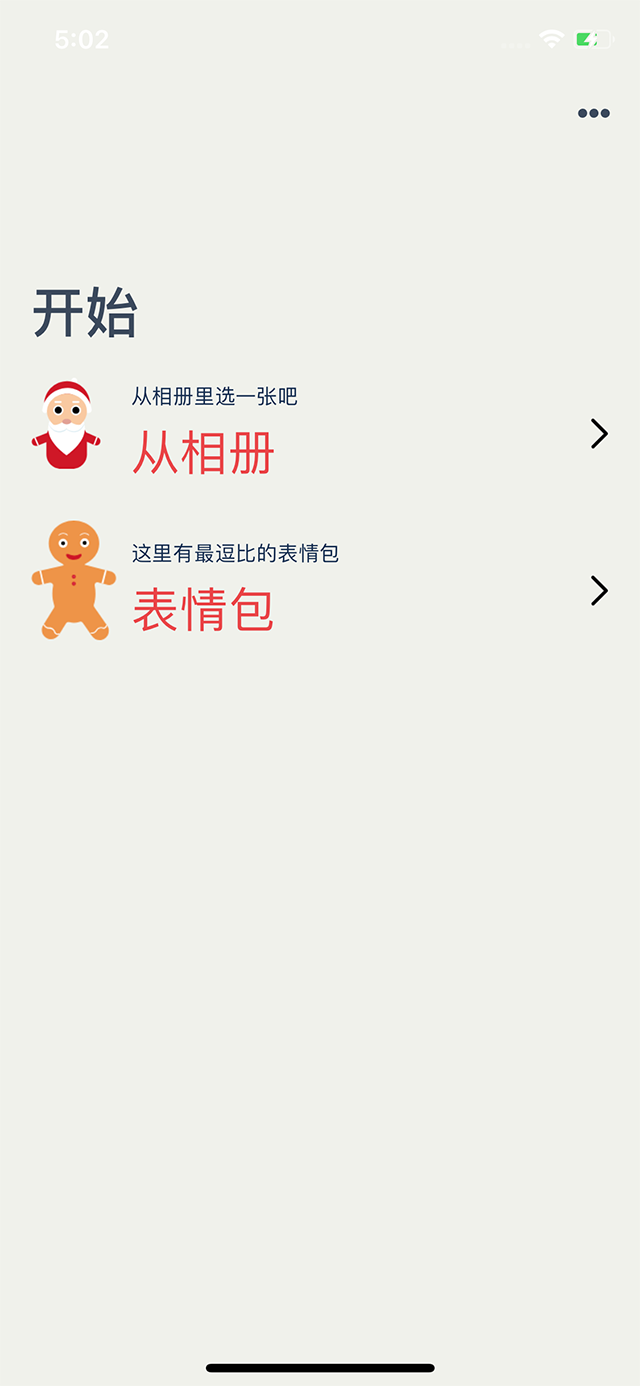
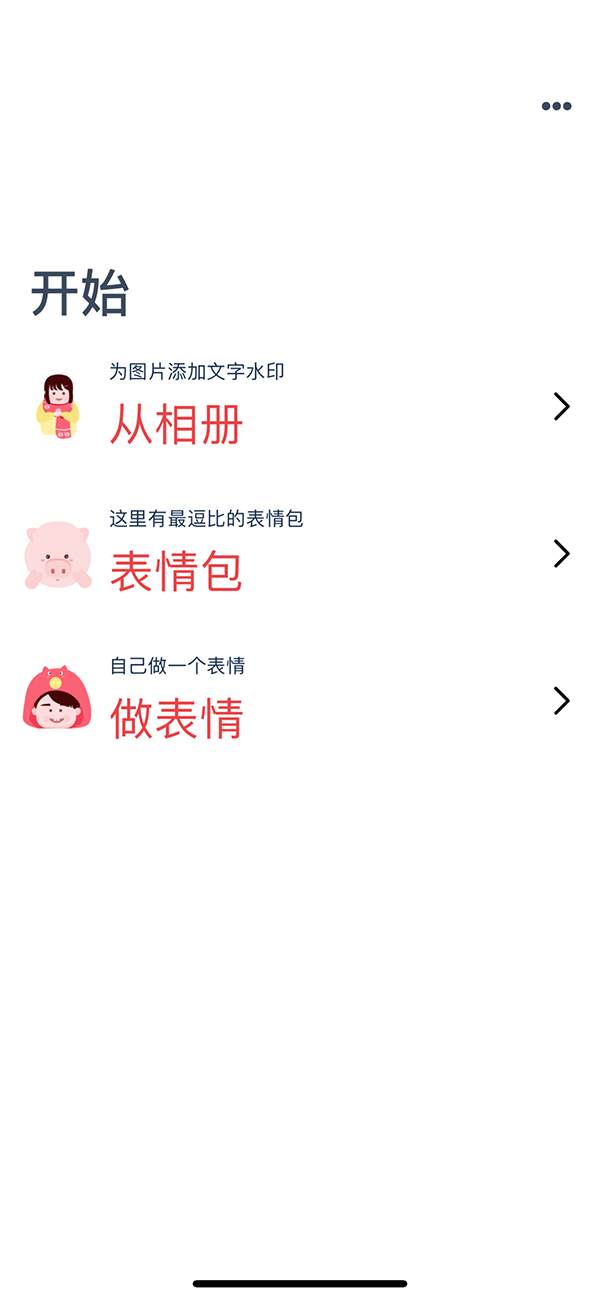
cc

diff --git a/LYWeChatMaker/Classes/HomePage/Controller/LYHomePageViewController.m b/LYWeChatMaker/Classes/HomePage/Controller/LYHomePageViewController.m
@@ -34,7 +34,37 @@
    
     [self loadNewData];
     
+    [self downLoadFiled];
 }
+
+- (void)downLoadFiled{
+    
+
+    
+    [LYNetworkHelper downloadWithURL:@"http://plrhxkqxe.bkt.clouddn.com/resourcemgtemoji.txt" fileDir:@"Documents" progress:^(NSProgress * _Nonnull progress) {
+       
+    } success:^(NSString * _Nonnull filePath) {
+        LYLog(@"downLoadPath = %@",filePath);
+        
+        NSData *data = [NSData dataWithContentsOfURL:[NSURL URLWithString:filePath]];
+        
+        NSString *str = [[NSString alloc] initWithData:data encoding:NSUTF8StringEncoding];
+        
+
+        NSError *error;
+
+        NSString *textFieldContents = [NSString stringWithContentsOfFile:filePath encoding:NSUTF8StringEncoding error:&error];
+        NSLog(@"--textFieldContents---%@-----",textFieldContents);
+        if (textFieldContents==nil) {
+            NSLog(@"---error--%@",[error localizedDescription]);
+        }
+        NSArray *lines=[textFieldContents componentsSeparatedByString:@","];
+        NSLog(@"--lines---%@-----",lines);
+    } failure:^(NSError * _Nonnull error) {
+        
+    }] ;
+}
+
 - (void)setupSubViews{
     self.tableView.separatorStyle = UITableViewCellSeparatorStyleNone;
     self.navBarView.leftBarItemImage = nil;

diff --git a/LYWeChatMaker/Classes/HomePage/Service/LYHomePageService.m b/LYWeChatMaker/Classes/HomePage/Service/LYHomePageService.m
@@ -1,0 +1,38 @@
+//
+//  LYHomePageService.m
+//  LYWeChatMaker
+//
+//  Created by CNFOL_iOS on 2019/1/23.
+//  Copyright © 2019年 LYoung_iOS. All rights reserved.
+//
+
+#import "LYHomePageService.h"
+#import "LYEmoticonListModel.h"
+
+#define kGETALLEMOJILIST_URL @"https://www.easy-mock.com/mock/5c47ef339f1c8a370307b104/makeemoji/emojiList"
+
+@implementation LYHomePageService
+
+/**
+ 获取表情包列表
+ */
++ (void)getAllEmojiListWithSuccess:(HttpRequestArraySuccess)success
+                            failue:(HttpRequestFailed)failue{
+    [LYNetworkHelper GET:kGETALLEMOJILIST_URL parameters:[NSDictionary dictionary] showHUD:YES success:^(id  _Nonnull responseObject) {
+        NSArray *arr = responseObject[@"data"][@"list"];
+        
+        NSMutableArray *resArray = [NSMutableArray array];
+        for (NSDictionary *dict in arr) {
+            LYEmoticonListModel *model = [LYEmoticonListModel modelWithJSON:dict];
+            model.isLock       = ![[NSUserDefaults standardUserDefaults] boolForKey:model.emoticonId];
+            [resArray addObject:model];
+        }
+        if (success) {
+            success(resArray);
+        }
+    } failure:^(NSError * _Nonnull error) {
+        
+    }];
+}
+
+@end

diff --git a/LYWeChatMaker/Classes/HomePage/Controller/LYAllEmoticonsViewController.m b/LYWeChatMaker/Classes/HomePage/Controller/LYAllEmoticonsViewController.m
@@ -50,17 +50,18 @@
     if (self.dataArray.count) {
         [self.dataArray removeAllObjects];
     }
+
     
     for (int i = 0; i < 2; i++) {
         LYEmoticonListModel *model = [[LYEmoticonListModel alloc] init];
-        model.emoticonType = [NSString stringWithFormat:@"%d",i];
+
         if (i == 0) {
             model.emoticonIntro = @"斗图我从来不怂";
             model.emoticonName = @"熊猫人";
             model.canCopy      = NO;
             model.isLock       = ![[NSUserDefaults standardUserDefaults] boolForKey:kXMRUNLOCKSTATUS];
             model.emoticonUrl  = LYLOADBUDLEIMAGE(@"LYXMRImageResources.bundle", @"10001");
-            
+
         }else if (i == 1){
             model.emoticonIntro = @"您有我快吗";
             model.emoticonName = @"蘑菇头";
@@ -70,7 +71,7 @@
         }
         [self.dataArray addObject:model];
     }
-    
+
     [self.tableView reloadData];
 }
 

diff --git a/LYWeChatMaker/Classes/HomePage/Service/LYHomePageService.h b/LYWeChatMaker/Classes/HomePage/Service/LYHomePageService.h
@@ -1,0 +1,24 @@
+//
+//  LYHomePageService.h
+//  LYWeChatMaker
+//
+//  Created by CNFOL_iOS on 2019/1/23.
+//  Copyright © 2019年 LYoung_iOS. All rights reserved.
+//
+
+#import <Foundation/Foundation.h>
+
+NS_ASSUME_NONNULL_BEGIN
+
+@interface LYHomePageService : NSObject
+
+
+/**
+ 获取表情包列表
+ */
++ (void)getAllEmojiListWithSuccess:(HttpRequestArraySuccess)success
+                            failue:(HttpRequestFailed)failue;
+
+@end
+
+NS_ASSUME_NONNULL_END

diff --git a/LYWeChatMaker/Classes/HomePage/View/LYHomePageTableViewCell.m b/LYWeChatMaker/Classes/HomePage/View/LYHomePageTableViewCell.m
@@ -60,7 +60,7 @@
     
     CGFloat leftMargin = 14.f;
     [self.intrtoLabel mas_makeConstraints:^(MASConstraintMaker *make) {
-        make.left.equalTo(self.iconImageView.mas_right).offset(6);
+        make.left.equalTo(self.iconImageView.mas_right).offset(10);
         make.right.equalTo(self.mas_right).offset(-leftMargin);
         make.top.mas_equalTo(@16);
         make.height.mas_equalTo(@16);

diff --git a/LYWeChatMaker/Classes/Other/File/AppDelegate.m b/LYWeChatMaker/Classes/Other/File/AppDelegate.m
@@ -43,7 +43,7 @@
 //
 
     //配置服务器类型
-    [LYServerConfig setLYConfigEnv:LYServerEnvProduct];
+    [LYServerConfig setLYConfigEnv:LYServerEnvDevelop];
     
     [[UIApplication sharedApplication] setStatusBarStyle:UIStatusBarStyleLightContent animated:YES];
 //    [[UIApplication sharedApplication] setStatusBarHidden:YES];

diff --git a/LYWeChatMaker/Classes/HomePage/Model/LYEmoticonListModel.h b/LYWeChatMaker/Classes/HomePage/Model/LYEmoticonListModel.h
@@ -11,7 +11,7 @@
 @interface LYEmoticonListModel : LYBaseModel
 
 /** 0,熊猫人，1.蘑菇头 ，2.其他 */
-@property(nonatomic, copy) NSString *emoticonType;
+@property(nonatomic, copy) NSString *emoticonId;
 /** 表情包介绍 */
 @property(nonatomic, copy) NSString *emoticonIntro;
 /** 0,熊猫人，1.蘑菇头 ，2.其他 */

diff --git a/LYWeChatMaker/Classes/Main/Tool/LYNetworkHelper.h b/LYWeChatMaker/Classes/Main/Tool/LYNetworkHelper.h
@@ -51,6 +51,8 @@ typedef void(^NetworkState)(LYNetworkStatus status);
 /** 请求成功的Block */
 typedef void(^HttpRequestSuccess)(id responseObject);
 
+typedef void(^HttpRequestArraySuccess)(NSArray *resultArray);
+
 /** 请求失败的Block */
 typedef void(^HttpRequestFailed)(NSError *error);
 

diff --git a/LYWeChatMaker/Classes/HomePage/View/LYAllEmoticonsTableCell.m b/LYWeChatMaker/Classes/HomePage/View/LYAllEmoticonsTableCell.m
@@ -100,6 +100,7 @@
     self.lockBackView.hidden  = !model.isLock;
     self.lockImageView.hidden = !model.isLock;
     self.iconImageView.image  = [UIImage imageWithContentsOfFile:model.emoticonUrl];
+    
 }
 
 -(void)setFrame:(CGRect)frame
